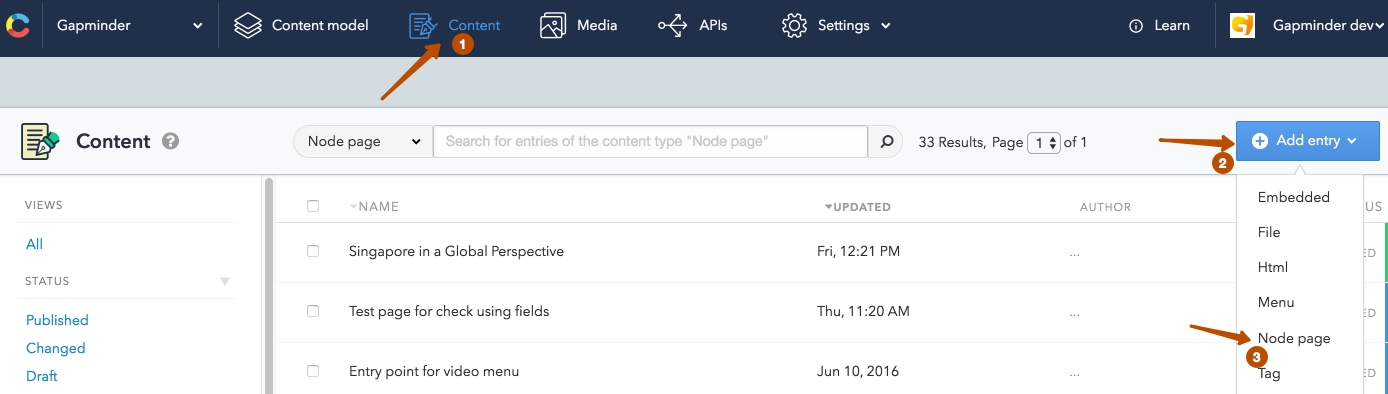
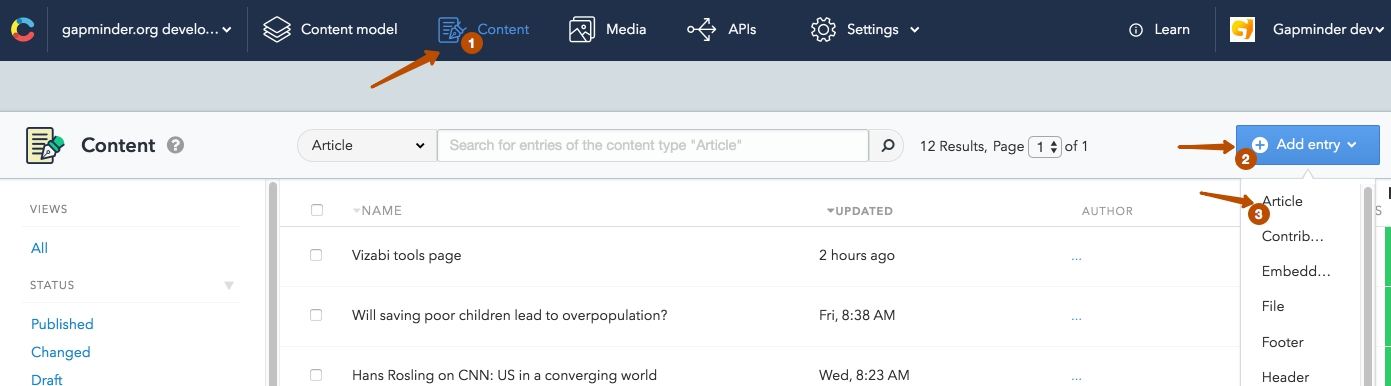
core(documentation): upgrade readme

diff --git a/index.ts b/index.ts
@@ -10,6 +10,7 @@ import {ContentfulImageDirective} from './components/entries-view/contentful-ima
 import {EmbeddedEntryComponent} from './components/entries-view/embedded-entry.component';
 import {HtmlEntryComponent} from './components/entries-view/html-entry.component';
 import {EntriesViewComponent} from './components/entries-view/entries-view.component';
+import {VizabiEntryComponent} from './components/entries-view/vizabi-entry.component';
 import {VideoEntryComponent} from './components/entries-view/video-entry.component';
 import {TagsComponent} from './components/tags/list-tags.component';
 import {TagComponent} from './components/tags/tag.component';
@@ -37,6 +38,7 @@ export {RoutesGatewayComponent};
 export {ContenfulContent};
 export {ContentfulImageDirective};
 export {EmbeddedEntryComponent};
+export {VizabiEntryComponent};
 export {HtmlEntryComponent};
 export {EntriesViewComponent};
 export {VideoEntryComponent};

diff --git a/README.md b/README.md
@@ -8,19 +8,24 @@ Module for creating a blog using [Contentful](https://www.contentful.com/)
 2. FooterMenuComponent
 3. BreadcrumbsService
 4. BreadcrumbsComponent
-5. DynamicRouteConfigurator
-6. RoutesGatewayService
-7. RoutesGatewayComponent
+5. RoutesManagerService
+6. RoutesGatewayComponent
+7. RoutesGatewayGuard
 8. ContenfulContent
 9. ContentfulImageDirective
 10. EmbeddedEntryComponent
-11. HtmlEntryComponent
-12. EntriesViewComponent
-13. VideoEntryComponent
-14. TagsComponent
-15. TagComponent
-16. MarkdownPipe
-17. ToDatePipe
+11. VizabiEntryComponent
+12. HtmlEntryComponent
+13. EntriesViewComponent
+14. VideoEntryComponent
+15. TagsComponent
+16. TagComponent
+17. MarkdownPipe
+18. ToDatePipe
+19. ContentfulService
+20. ContributorsComponent
+21. ProfileComponent
+
 
 ## ng2-contentful-blog components diagram 
 
@@ -32,7 +37,7 @@ Module for creating a blog using [Contentful](https://www.contentful.com/)
 
 
 ### `Menu` - includes fields:
-  - `name` (`Short text`)
+  - `title` (`Short text`)
   
     Settings:
       - Check: `This field represents the Entry title`
@@ -46,11 +51,11 @@ Module for creating a blog using [Contentful](https://www.contentful.com/)
   - `entryPoint` (`Reference`)
   
     Settings:
-      - Validations => Specify allowed entry type: `NodePage`
+      - Validations => Specify allowed entry type: `Article`
       - Appearance: `Entry link`
 
 ### `Submenu` - includes fields:
-  - `name` (`Short text`)
+  - `title` (`Short text`)
   
     Settings:
       - Check: `This field represents the Entry title`
@@ -59,12 +64,12 @@ Module for creating a blog using [Contentful](https://www.contentful.com/)
   - `entryPoint` (`Reference`)
   
     Settings:
-      - Validations => Specify allowed entry type: `NodePage`
+      - Validations => Specify allowed entry type: `Article`
       - Appearance: `Entry link`
   - `thumbnail` (`Media`)
 
 ### `Header` - includes fields:
-  - `name` (`Short text`)
+  - `title` (`Short text`)
   
     Settings:
       - Check: `This field represents the Entry title`
@@ -77,7 +82,7 @@ Module for creating a blog using [Contentful](https://www.contentful.com/)
       - Appearance: `Entry links list`
 
 ### `Footer` - includes fields:
-  - `name` (`Short text`)
+  - `title` (`Short text`)
   
     Settings:
       - Check: `This field represents the Entry title`
@@ -89,8 +94,8 @@ Module for creating a blog using [Contentful](https://www.contentful.com/)
       - Validations => Specify allowed entry type: `Menu`
       - Appearance: `Entry links list`
 
-### `Tag` - for creating and attaching tags in `NodePage`, includes fields:
-  - `name` (`Short text`)
+### `Tag` - for creating and attaching tags in `Article`, includes fields:
+  - `title` (`Short text`)
   
     Settings:
       - Check: `This field represents the Entry title`
@@ -101,8 +106,8 @@ Module for creating a blog using [Contentful](https://www.contentful.com/)
     Settings:
       - Appearance: `Slug`
       
-### `Html` - model that it used to create the html blocks for `NodePage`, includes fields:
-  - `name` (`Short text`)
+### `Html` - model that it used to create the html blocks for `Article`, includes fields:
+  - `title` (`Short text`)
   
     Settings:
       - Check: `This field represents the Entry title`
@@ -112,7 +117,7 @@ Module for creating a blog using [Contentful](https://www.contentful.com/)
     Settings:
       - Appearance: `Markdown`
       
-### `Video` - model that it used to create the video blocks (via iframe) for `NodePage`, includes fields:
+### `Video` - model that it used to create the video blocks (via iframe) for `Article`, includes fields:
   - `title` (`Short text`)
   
     Settings:
@@ -125,7 +130,7 @@ Module for creating a blog using [Contentful](https://www.contentful.com/)
   - `youtube` (`Short text`)
   - `vimeo` (`Short text`)
   
-### `Embedded` - to create a block of any embedded content (via iframe) for `NogePage`, includes fields: 
+### `Embedded` - to create a block of any embedded content (via iframe) for `Article`, includes fields: 
   - `title` (`Short text`)
   
     Settings:
@@ -136,8 +141,20 @@ Module for creating a blog using [Contentful](https://www.contentful.com/)
     Settings:
       - Validations: `This field is required`
       - Appearance: `Single line`
+     
+### `Vizabi` - to create a vizabi composition block uses vizabi's `state`, includes fields: 
+  - `title` (`Short text`)
+  
+    Settings:
+      - Check: `This field represents the Entry title`
+      - Appearance: `Single line`
+  - `state` (`Long text`)
+  
+    Settings:
+      - Validations: `This field is required`
+      - Appearance: `Single line`
       
-### `NodePage` - blueprint of the page for posts/list of posts, includes fields:
+### `Article` - blueprint of the page for posts/list of posts, includes fields:
 
   - `title` (`Short text`)
      
@@ -145,11 +162,6 @@ Module for creating a blog using [Contentful](https://www.contentful.com/)
       - Check: `This field represents the Entry title`
       - Validations: `This field is required`
       - Appearance: `single line`
-  - `type` (`Short text`)
-     
-    Settings:
-      - Validations: `Predefined values`
-      - Appearance: `Dropdown`
   - `slug` (`Short text`)
          
     Settings:
@@ -162,14 +174,14 @@ Module for creating a blog using [Contentful](https://www.contentful.com/)
   - `entries` (`References, many`)
        
      Settings:
-       - Validations => Specify allowed entry type: `Html`, `Video`, `Embedded`
+       - Validations => Specify allowed entry type: `Html`, `Video`, `Embedded`, `Vizabi`
        - Appearance: `Entry links list`
-  - `Related nodes` (`References, many`)
+  - `related` (`References, many`)
       
     Settings:
-      - Validations => Specify allowed entry type: `NodePage`
+      - Validations => Specify allowed entry type: `Article`
       - Appearance: `Entry links list`
-  - `createdAt` (`Date & time`)
+  - `created at` (`Date & time`)
       
     Settings:
       - Validations: `This field is required`
@@ -177,17 +189,92 @@ Module for creating a blog using [Contentful](https://www.contentful.com/)
   - `parent` (`Reference`)
       
     Settings:
-      - Validations => Specify allowed entry type: `NodePage`
+      - Validations => Specify allowed entry type: `Article`
       - Appearance: `Entry link`
   - `tags` (`References, many`)
        
     Settings:
       - Validations => Specify allowed entry type: `Tag`
       - Appearance: `Entry links list` 
-      
+    
+### `Contribution` - includes fields:
 
-## Basic usage `NodePage`
-Go to `contentful` choose `content` then choose `Add entry` and fill in `NodePage`, for example:
+  - `description` (`Long text`)
+       
+    Settings:
+      - Appearance: `Markdown`
+  - `article` (`Reference`)
+      
+    Settings:
+      - Validations => Specify allowed entry type: `Article`
+      - Appearance: `Entry card`
+  
+### `Profile` - includes fields:
+
+   - `user name` (`Short text`)
+       
+      Settings:
+        - Check: `This field represents the Entry title`
+        - Validations: `This field is required`
+        - Appearance: `single line`
+   - `first name` (`Short text`)
+       
+     Settings:
+       - Validations: `This field is required`
+       - Appearance: `Single line`
+   - `last name` (`Short text`)
+       
+     Settings:
+       - Validations: `This field is required`
+       - Appearance: `Single line`
+   - `avatar` (`Media`)
+   - `title` (`Short text`)
+          
+     Settings:
+       - Appearance: `Single line`
+   - `location` (`Short text`)
+          
+     Settings:
+       - Appearance: `Single line`
+   - `email` (`Short text`)
+          
+     Settings:
+       - Validations: `Match a specific pattern` -> `E-Mail`
+       - Appearance: `Single line`
+   - `facebook` (`Short text`)
+             
+     Settings:
+       - Appearance: `Single line`
+   - `google+` (`Short text`)
+             
+     Settings:
+       - Appearance: `Single line`
+   - `linkedin` (`Short text`)
+             
+     Settings:
+       - Appearance: `Single line`
+   - `twitter` (`Short text`)
+             
+     Settings:
+       - Appearance: `Single line`
+   - `aboute me` (`Long text`)
+         
+     Settings:
+       - Appearance: `Markdown`
+   - `contributions` (`References, many`)
+         
+      Settings:
+        - Validations => Specify allowed entry type: `Contribution`
+        - Appearance: `Entry links list`
+   - `my links` (`References, many`)
+        
+     Settings:
+       - Validations => Specify allowed entry type: `Embedded`, `Html`, `Video`, `Vizabi`
+       - Appearance: `Entry links list`
+
+
+## Basic usage `Article`
+Go to `contentful` choose `content` then choose `Add entry` and fill in `Article`, for example:
 
 ![content](img_contentful/createContent.jpg)
 
@@ -202,7 +289,7 @@ Go to `contentful` choose `content` then choose `Add entry` and fill in `NodePag
   - `slug`: sub-page
   - `description`: Sub page test
   - `entries` - create new `html`
-  - `Related nodes`: `Page test` 
+  - `related`: `Page test` 
   - `parent`: `Page test`
   - `tags`: blog
 
@@ -212,18 +299,18 @@ Go to `contentful` choose `content` then choose `Add entry` and fill in `Menu`, 
 ![content](img_contentful/createMenu.jpg)
 
 #### Create first menu item 
-  - `name`: Menu item
+  - `title`: Menu item
   - `submenus`: select or create `SubMenu`
   
   ***OR***
   
-  - `entryPoint`: select or create `NodePage`
+  - `entryPoint`: select or create `Article`
   
   ***Note: priority will be `submenus`***
   
     
 #### Create HeaderMenu
-  - `name`: HeaderMenu
+  - `title`: HeaderMenu
   - `entries`: `Menu item` (your menu item)
 
 ### Demo
@@ -247,12 +334,18 @@ Go to `contentful` choose `content` then choose `Add entry` and fill in `Menu`, 
     
      ```json
      {
-       "CONTENTFUL_NODE_PAGE_TYPE_ID": "***YOUR ID***",
-       "CONTENTFUL_TAG_TYPE_ID": "***YOUR ID***",
-       "VIDEO_CONTENT_ID": "***YOUR ID***",
-       "HTML_CONTENT_ID": "***YOUR ID***",
-       "EMBEDDED_CONTENT_ID": "***YOUR ID***"
+       "NODE_PAGE_TYPE_ID": "***YOUR ID***",
+       "TAG_TYPE_ID": "***YOUR ID***",
+       "VIDEO_TYPE_ID": "***YOUR ID***",
+       "HTML_TYPE_ID": "***YOUR ID***",
+       "EMBEDDED_TYPE_ID": "***YOUR ID***",
+       "PROFILE_TYPE_ID": "***YOUR ID***",
+       "CONTRIBUTION_TYPE_ID": "***YOUR ID***",
+       "HEADER_TYPE_ID": "***YOUR ID***",
+       "FOOTER_TYPE_ID": "***YOUR ID***",
+       "VIZABI_TYPE_ID": "***YOUR ID***"
      }
+
      ```
      
 3. `npm i && npm run dev`
